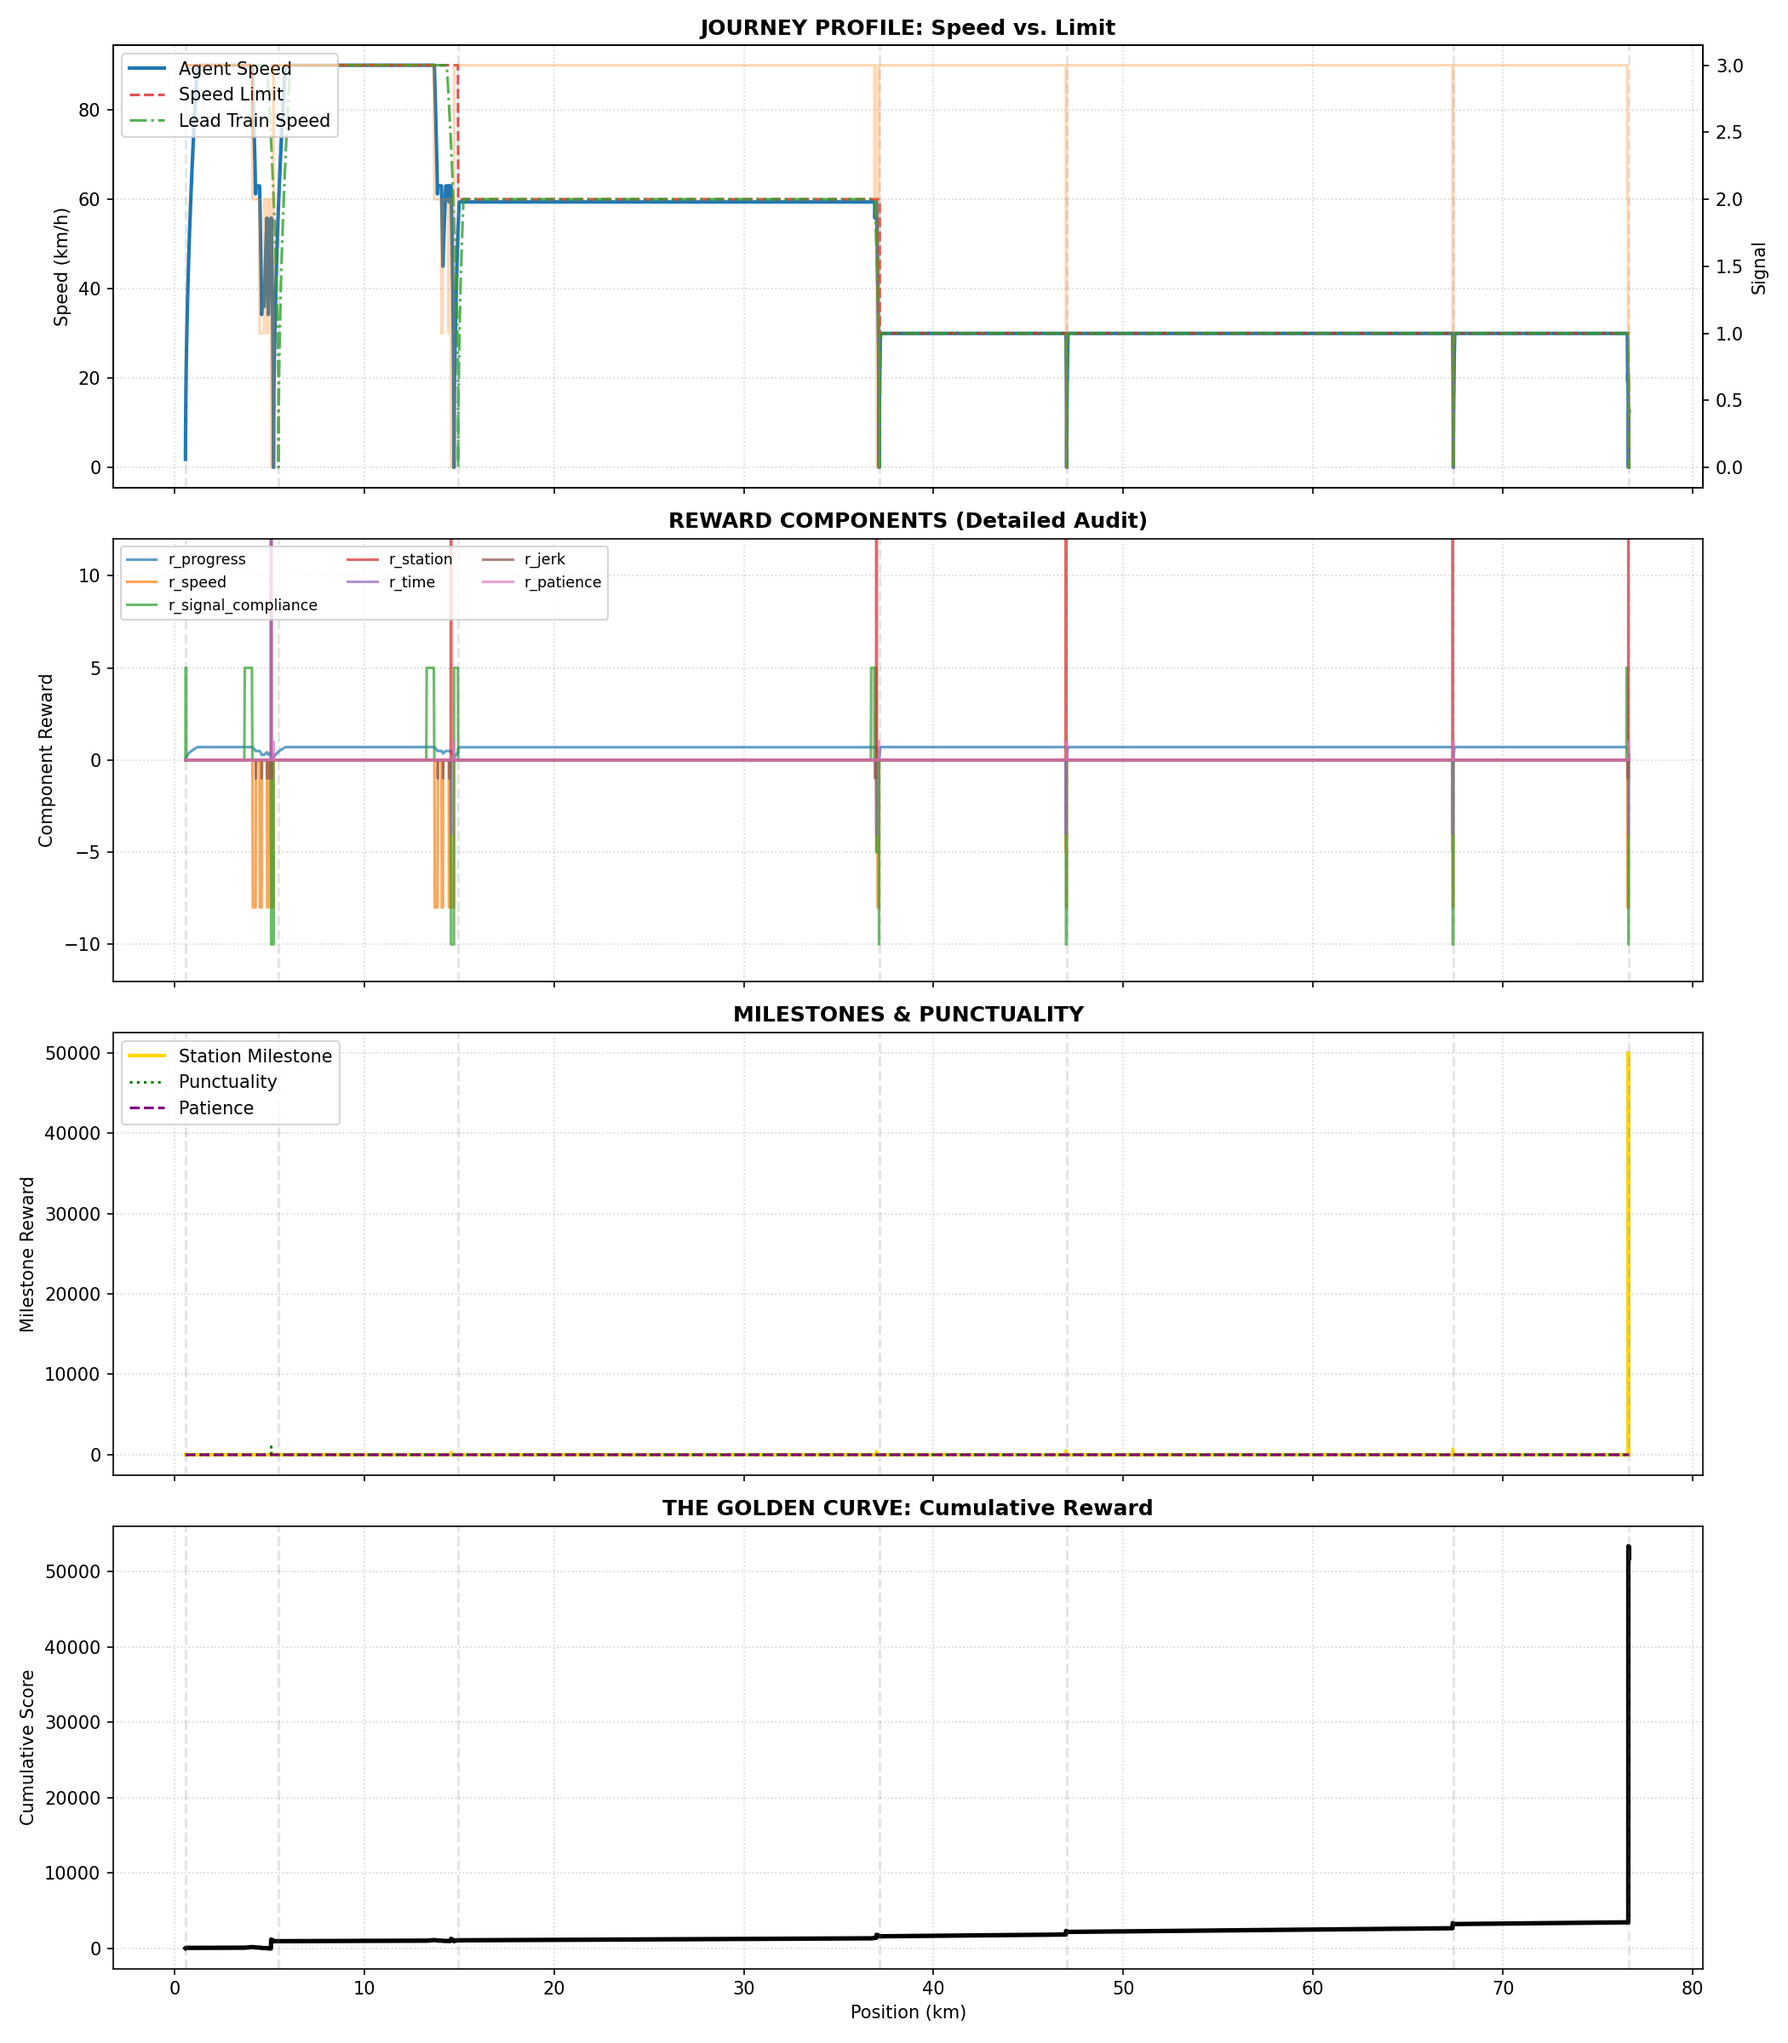
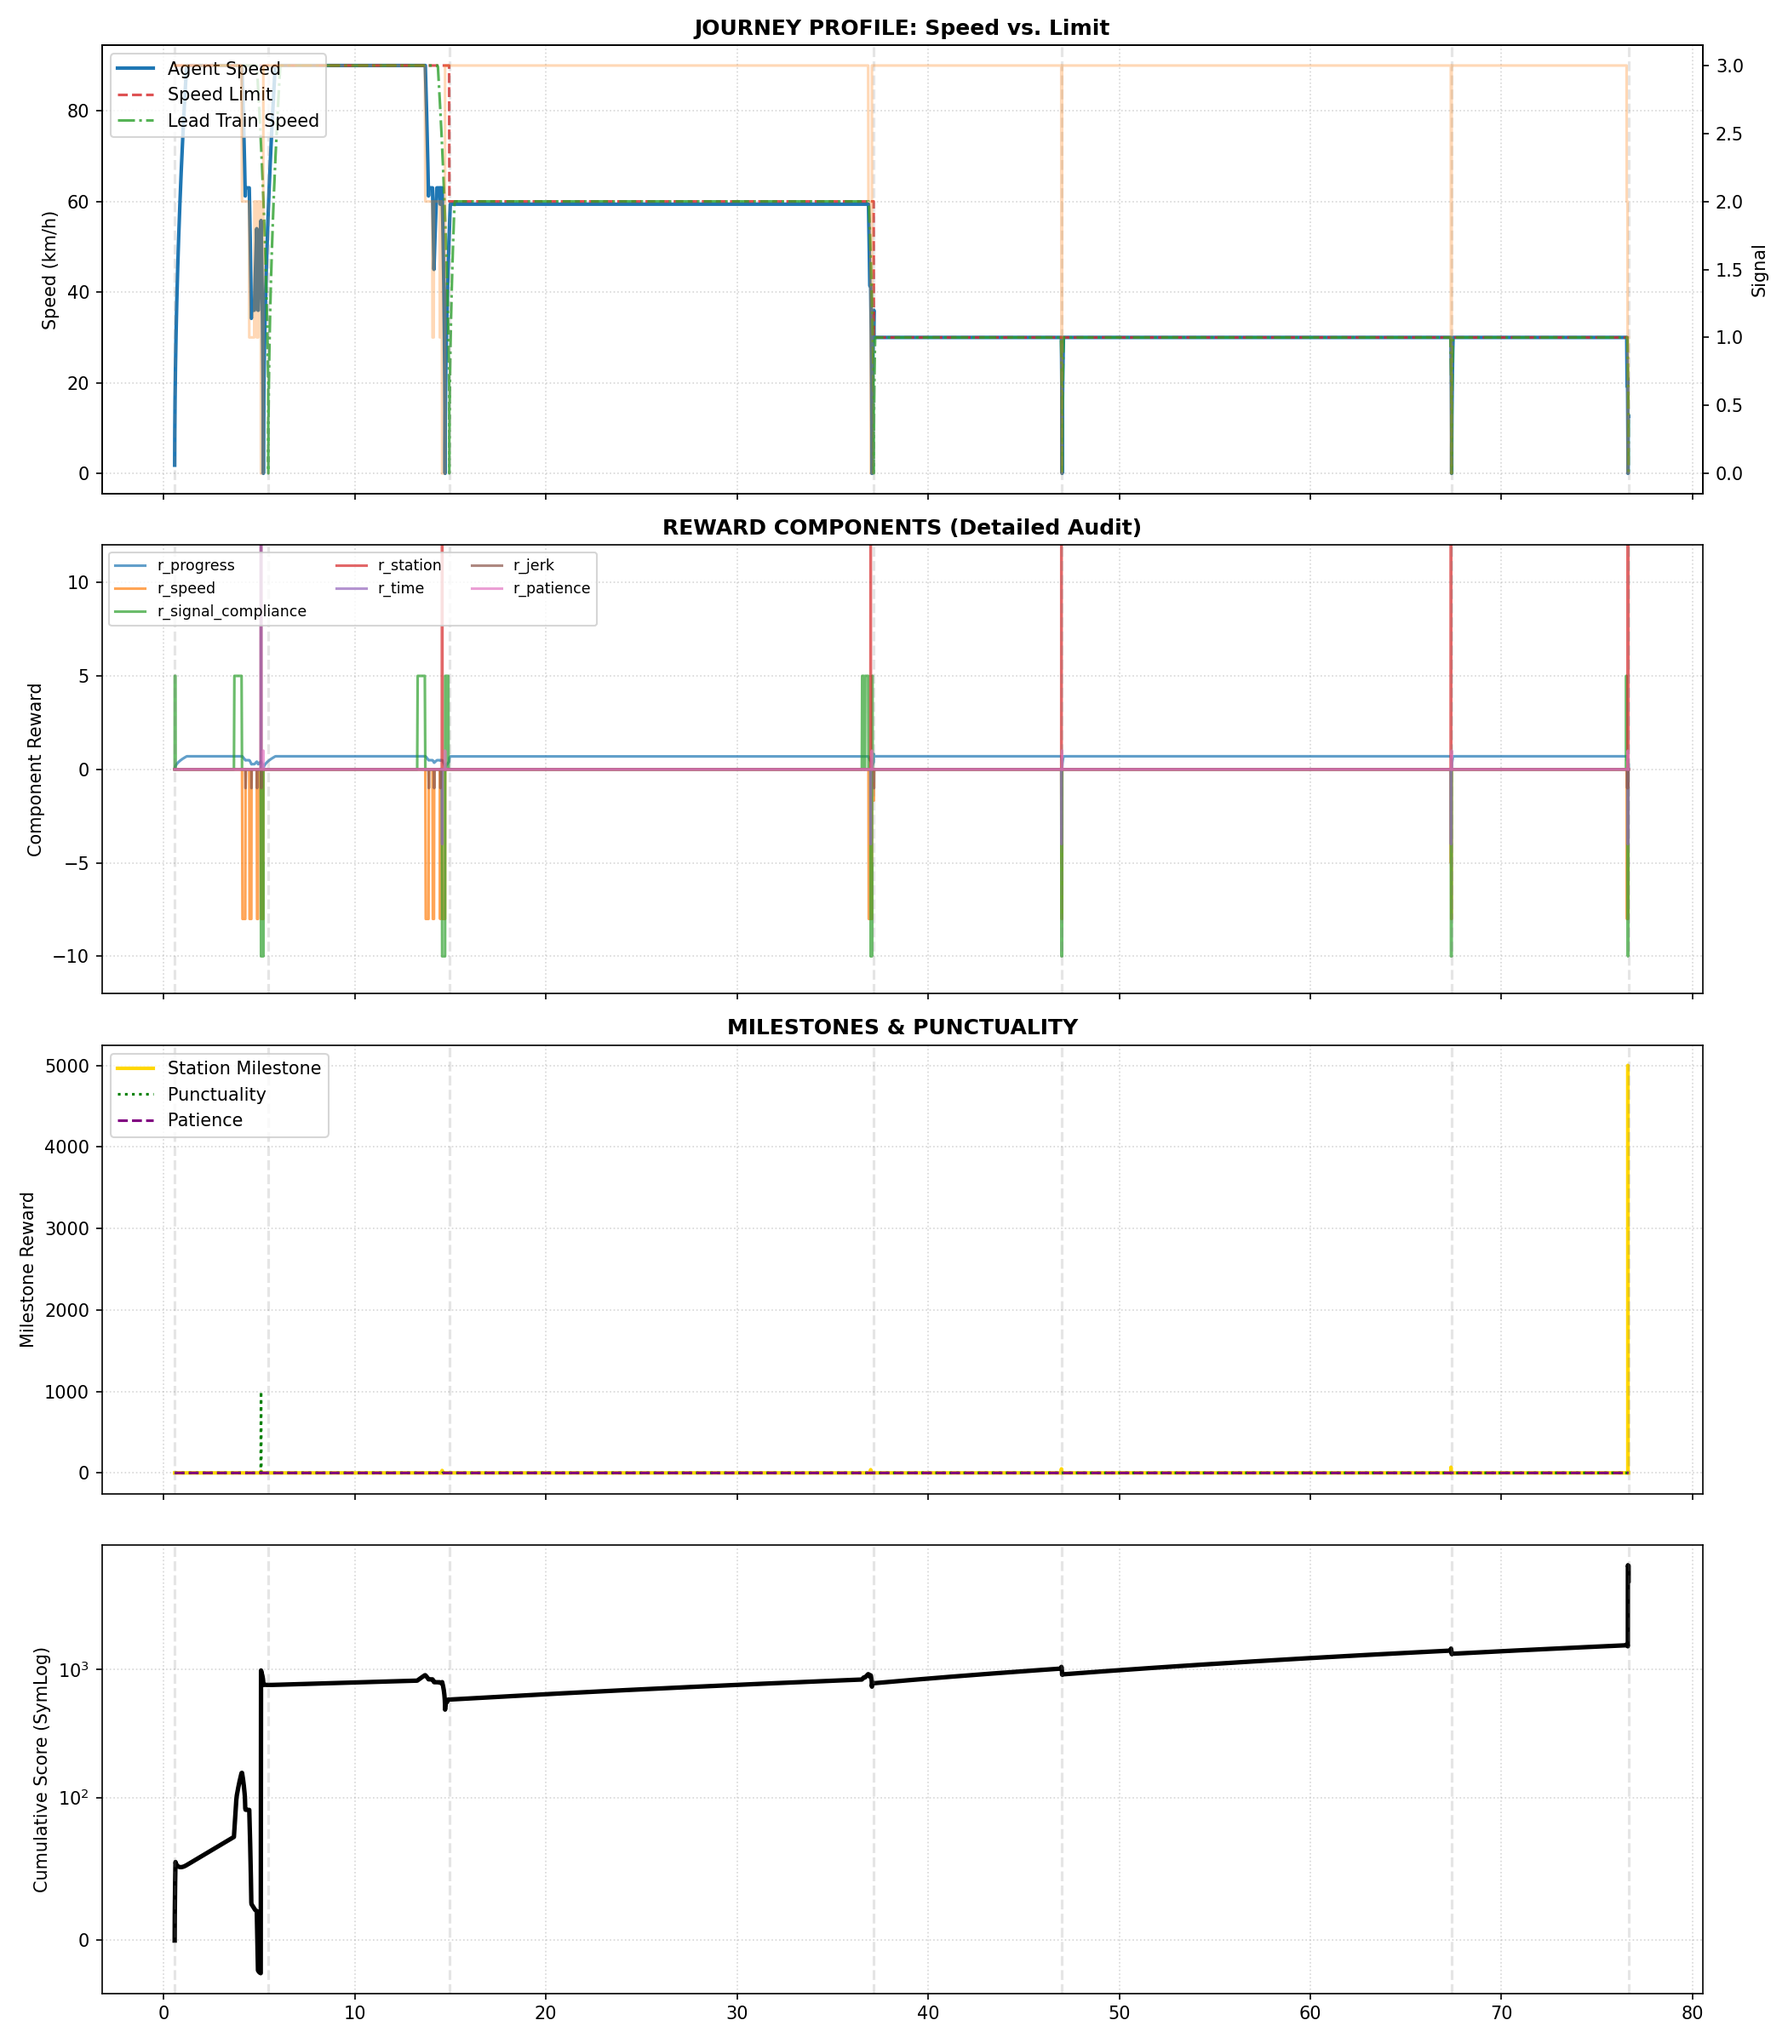
refactor: adjust reward function parameters and update validation override logs

diff --git a/reward/reward_function.py b/reward/reward_function.py
@@ -72,7 +72,7 @@ def compute_reward(state: TrainState, info: Dict[str, Any]) -> RewardOutput:
     out = RewardOutput()
 
     # Step penalty — drives directed exploration toward the terminus
-    out.r_step = -0.5
+    out.r_step = -1.0
 
     # 1. Progress Reward
     # Scaled so that driving at the speed limit always roughly offsets the step penalty,
@@ -160,12 +160,12 @@ def compute_reward(state: TrainState, info: Dict[str, Any]) -> RewardOutput:
 
     # 7. Station Milestone Reward
     STATION_REWARDS = {
-        1: +200.0,   # Rabka-Zdrój
-        2: +300.0,   # Mszana Dolna
-        3: +400.0,   # Tymbark
-        4: +500.0,   # Limanowa
-        5: +700.0,   # Marcinkowice
-        6: +50000.0,  # Nowy Sącz (terminus — maximum reward)
+        1: +20.0,   # Rabka-Zdrój
+        2: +30.0,   # Mszana Dolna
+        3: +40.0,   # Tymbark
+        4: +50.0,   # Limanowa
+        5: +70.0,   # Marcinkowice
+        6: +20000.0,  # Nowy Sącz (terminus — maximum reward)
     }
     if state.reached_new_station:
         out.r_station = STATION_REWARDS.get(state.station_index, 0.0)
@@ -175,9 +175,9 @@ def compute_reward(state: TrainState, info: Dict[str, Any]) -> RewardOutput:
         if state.scheduled_arrival_time is not None and state.actual_arrival_time is not None:
             deviation = abs(state.scheduled_arrival_time - state.actual_arrival_time)
             if deviation <= 60.0:
-                out.r_time = 1000.0
+                out.r_time = 100.0
             else:
-                out.r_time = -4.0
+                out.r_time = -100.0
     
     # 9. Patience Reward
     if state.is_dwelling and u < 0.1:
